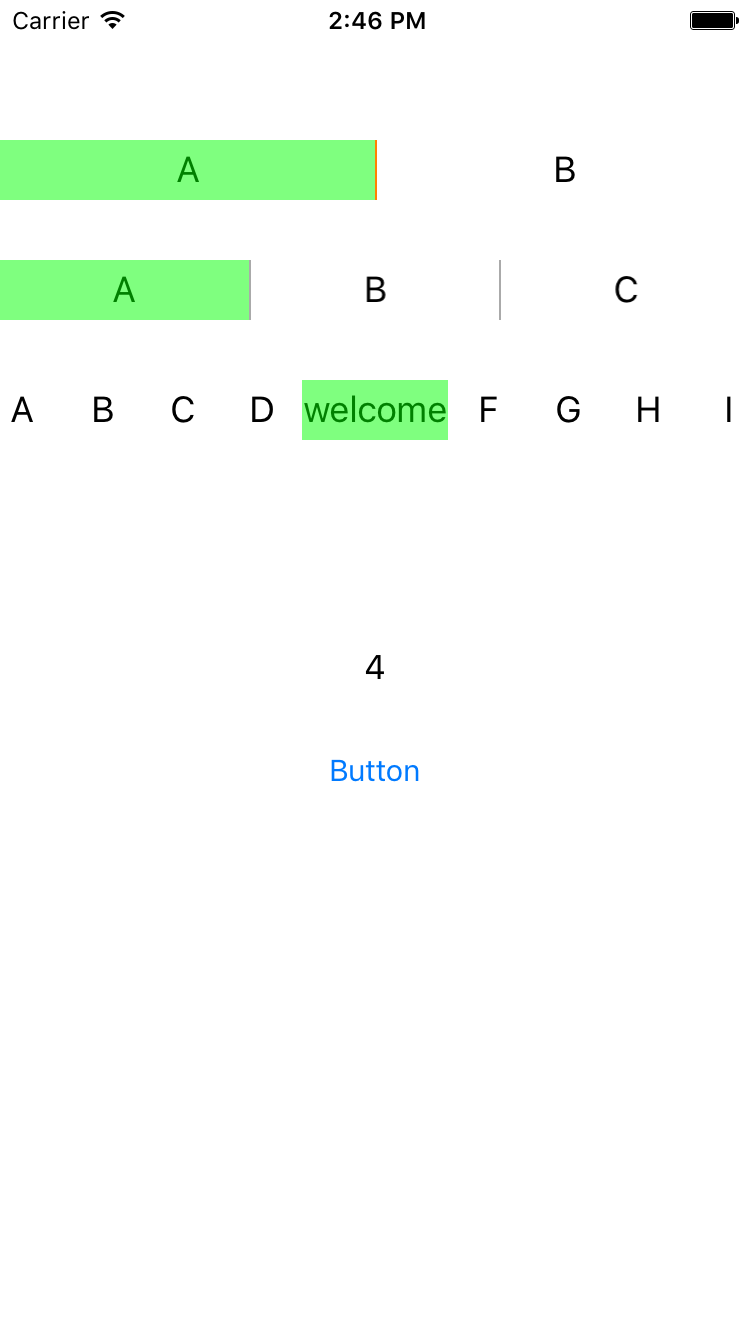
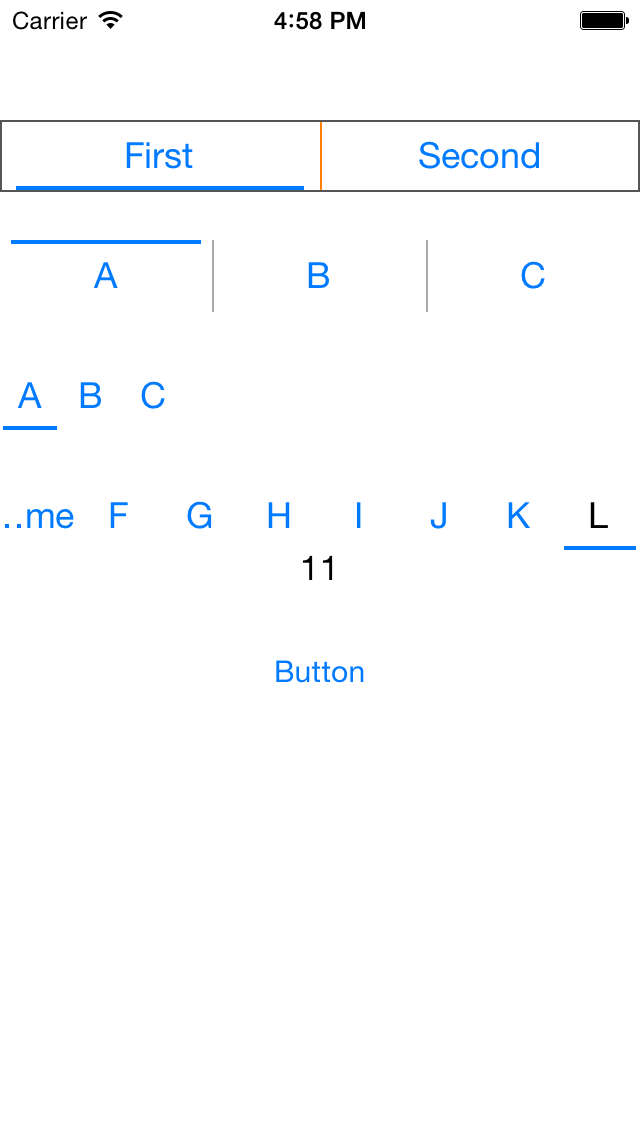
add two types of indictor;

diff --git a/LTSegmentedControl.m b/LTSegmentedControl.m
@@ -9,7 +9,7 @@
 #import "LTSegmentedControl.h"
 
 @interface LTSegmentedControl ()
-@property (nonatomic, strong) UIView *indicatorView;
+
 @end
 
 @implementation LTSegmentedControl
@@ -23,23 +23,14 @@
     return self;
 }
 
-- (UIView *)indicatorView {
-    if (!_indicatorView) {
-        _indicatorView = [[UIView alloc] init];
-        _indicatorView.backgroundColor = [UIColor greenColor];
-        _indicatorView.alpha = 0.5;
-    }
-    return _indicatorView;
-}
-
 - (NSUInteger)numberOfSegments {
     return self.items.count;
 }
 
 - (void)setupUI {
     _lineSpace = 2;
-    _minWidth = 60;
-    _titleColor = [UIColor blackColor];
+    _minWidth = 2;
+    _titleColor = self.tintColor;
     _hightlightColor = [UIColor darkTextColor];
     self.backgroundColor = [UIColor lightGrayColor];
     
@@ -53,7 +44,19 @@
         [self addSubview:btn];
         btn.tag = idx + 100;
     }];
-    [self addSubview:self.indicatorView];
+    self.indicatorView = [self bottomLineIndicatorView];
+    self.contentInset = UIEdgeInsetsMake(2, 0, 2, 0);
+}
+
+- (void)setIndicatorView:(UIView *)indicatorView {
+    if (_indicatorView == indicatorView) {
+        return ;
+    }
+    if (!_indicatorView) {
+        [_indicatorView removeFromSuperview];
+    }
+    _indicatorView = indicatorView;
+    [self addSubview:indicatorView];
 }
 
 - (void)tapped:(UIButton *)sender {
@@ -75,6 +78,7 @@
     [UIView animateWithDuration:.23 animations:^{
         self.indicatorView.frame = frame;
     }];
+    
     CGFloat maxoffset = self.contentSize.width - self.bounds.size.width;
     if (!self.scrollEnabled || (maxoffset <= 3.0)) {
         return ;
@@ -109,7 +113,9 @@
         UIButton * btn = (UIButton *)self.subviews[index];
         [btn sizeToFit];
         CGFloat width = MAX(CGRectGetWidth(btn.bounds), self.minWidth);
-       // width = MIN(width, self.maxWidth);
+        if (self.maxWidth > self.minWidth) {
+            width = MIN(width, self.maxWidth);
+        }
         btn.frame = CGRectMake(contentWidth, self.bounds.origin.y, width, self.bounds.size.height);
         contentWidth += width + self.lineSpace;
     }
@@ -117,6 +123,40 @@
     UIButton *current = (UIButton *)self.subviews[self.selectedSegmentIndex];
     CGRect frame = current.frame;
     self.indicatorView.frame = frame;
+}
+
+@end
+
+@implementation LTSegmentedControl(Indictor)
+
+- (UIView *)topLineIndicatorView {
+    UIView *indicatorView = [[UIView alloc] init];
+    indicatorView.backgroundColor = [UIColor clearColor];
+    UIView *lineView = [[UIView alloc] init];
+    lineView.backgroundColor = self.tintColor;
+    lineView.translatesAutoresizingMaskIntoConstraints = NO;
+    [indicatorView addSubview:lineView];
+        
+    [indicatorView addConstraint:[NSLayoutConstraint constraintWithItem:lineView attribute:NSLayoutAttributeWidth relatedBy:NSLayoutRelationEqual toItem:indicatorView attribute:NSLayoutAttributeWidth multiplier:.9 constant:0]];
+    [indicatorView addConstraint:[NSLayoutConstraint constraintWithItem:lineView attribute:NSLayoutAttributeCenterX relatedBy:NSLayoutRelationEqual toItem:indicatorView attribute:NSLayoutAttributeCenterX multiplier:1.0 constant:0]];
+    [indicatorView addConstraint:[NSLayoutConstraint constraintWithItem:lineView attribute:NSLayoutAttributeTop relatedBy:NSLayoutRelationEqual toItem:indicatorView attribute:NSLayoutAttributeTop multiplier:.9 constant:0]];
+    [lineView addConstraint:[NSLayoutConstraint constraintWithItem:lineView attribute:NSLayoutAttributeHeight relatedBy:NSLayoutRelationEqual toItem:nil attribute:NSLayoutAttributeNotAnAttribute multiplier:1.0 constant:2]];
+    return indicatorView;
+}
+
+- (UIView *)bottomLineIndicatorView {
+    UIView *indicatorView = [[UIView alloc] init];
+    indicatorView.backgroundColor = [UIColor clearColor];
+    UIView *lineView = [[UIView alloc] init];
+    lineView.backgroundColor = self.tintColor;
+    lineView.translatesAutoresizingMaskIntoConstraints = NO;
+    [indicatorView addSubview:lineView];
+    
+    [indicatorView addConstraint:[NSLayoutConstraint constraintWithItem:lineView attribute:NSLayoutAttributeWidth relatedBy:NSLayoutRelationEqual toItem:indicatorView attribute:NSLayoutAttributeWidth multiplier:.9 constant:0]];
+    [indicatorView addConstraint:[NSLayoutConstraint constraintWithItem:lineView attribute:NSLayoutAttributeCenterX relatedBy:NSLayoutRelationEqual toItem:indicatorView attribute:NSLayoutAttributeCenterX multiplier:1.0 constant:0]];
+    [indicatorView addConstraint:[NSLayoutConstraint constraintWithItem:lineView attribute:NSLayoutAttributeBottom relatedBy:NSLayoutRelationEqual toItem:indicatorView attribute:NSLayoutAttributeBottom multiplier:.9 constant:2.5]];
+    [lineView addConstraint:[NSLayoutConstraint constraintWithItem:lineView attribute:NSLayoutAttributeHeight relatedBy:NSLayoutRelationEqual toItem:nil attribute:NSLayoutAttributeNotAnAttribute multiplier:1.0 constant:2]];
+    return indicatorView;
 }
 
 @end

diff --git a/LTSegmentControl/ViewController.m b/LTSegmentControl/ViewController.m
@@ -18,31 +18,45 @@
 
 - (void)viewDidLoad {
     [super viewDidLoad];
-    LTSegmentedControl *segmentZero = [[LTSegmentedControl alloc] initWithItems:@[@"A", @"B"]];
-    segmentZero.backgroundColor = [UIColor orangeColor];
-    segmentZero.lineSpace = 1.0;
-    segmentZero.minWidth = ([UIScreen mainScreen].bounds.size.width) / 2;
-    segmentZero.frame = CGRectMake(0, 70, [UIScreen mainScreen].bounds.size.width,30);
-    segmentZero.segmentDelegate = self;
-    [self.view addSubview:segmentZero];
+    CGFloat height = 36;
+    CGFloat y = 60;
+    
+    LTSegmentedControl *segmentOne = [[LTSegmentedControl alloc] initWithItems:@[@"First", @"Second"]];
+    segmentOne.backgroundColor = [UIColor orangeColor];
+    segmentOne.lineSpace = 1.0;
+    segmentOne.minWidth = ([UIScreen mainScreen].bounds.size.width) / 2;
+    segmentOne.frame = CGRectMake(0, y, [UIScreen mainScreen].bounds.size.width,height);
+    segmentOne.segmentDelegate = self;
+    segmentOne.layer.borderColor = [UIColor darkGrayColor].CGColor;
+    segmentOne.layer.borderWidth = 1.0;
+
+    [self.view addSubview:segmentOne];
     
     LTSegmentedControl *segmentTwo = [[LTSegmentedControl alloc] initWithItems:@[@"A", @"B", @"C"]];
+    segmentTwo.indicatorView = [segmentTwo topLineIndicatorView];
     segmentTwo.lineSpace = 1.0;
     segmentTwo.minWidth = ([UIScreen mainScreen].bounds.size.width - 2) / 3;
-    segmentTwo.frame = CGRectMake(0, 130, [UIScreen mainScreen].bounds.size.width,30);
+    segmentTwo.frame = CGRectMake(0, y += 60 , [UIScreen mainScreen].bounds.size.width,height);
     segmentTwo.segmentDelegate = self;
     [self.view addSubview:segmentTwo];
     
+    LTSegmentedControl *segmentThree = [[LTSegmentedControl alloc] initWithItems:@[@"A", @"B", @"C"]];
+    segmentThree.backgroundColor = [UIColor clearColor];
+    segmentThree.lineSpace = 1.0;
+    segmentThree.frame = CGRectMake(0, y += 60, [UIScreen mainScreen].bounds.size.width,height);
+    segmentThree.segmentDelegate = self;
+    [self.view addSubview:segmentThree];
     
     self.segmentControl = [[LTSegmentedControl alloc] initWithItems:@[@"A", @"B", @"C", @"D", @"welcome", @"F", @"G", @"H", @"I", @"J", @"K", @"L"]];
     self.segmentControl.lineSpace = 0;
     self.segmentControl.minWidth = 40;
     self.segmentControl.maxWidth = 60;
-    self.segmentControl.frame = CGRectMake(0, 190, [UIScreen mainScreen].bounds.size.width,30);
+    self.segmentControl.frame = CGRectMake(0, y += 60, [UIScreen mainScreen].bounds.size.width,height);
     [self.view addSubview:self.segmentControl];
     self.segmentControl.segmentDelegate = self;
 
 }
+
 - (IBAction)tapped:(id)sender {
     NSUInteger index = random();
     index = index % (self.segmentControl.numberOfSegments + 1);

diff --git a/LTSegmentedControl.h b/LTSegmentedControl.h
@@ -8,8 +8,9 @@
 
 #import <UIKit/UIKit.h>
 
+NS_ASSUME_NONNULL_BEGIN
+
 @class UIColor;
-@class UIView;
 
 @protocol LTSegmentedControlDelegate <NSObject>
 
@@ -31,8 +32,16 @@
 @property (nonatomic, strong) UIColor *titleColor;
 
 @property (nonatomic, weak) id<LTSegmentedControlDelegate> segmentDelegate;
+/// a indicatorView for custom
+@property (nonatomic, strong) UIView *indicatorView;
 
 - (instancetype)initWithItems:(NSArray<NSString *>*) items;
 
-
 @end
+
+@interface LTSegmentedControl (IndicatorView)
+- (UIView *)topLineIndicatorView;
+- (UIView *)bottomLineIndicatorView;
+@end
+
+NS_ASSUME_NONNULL_END
